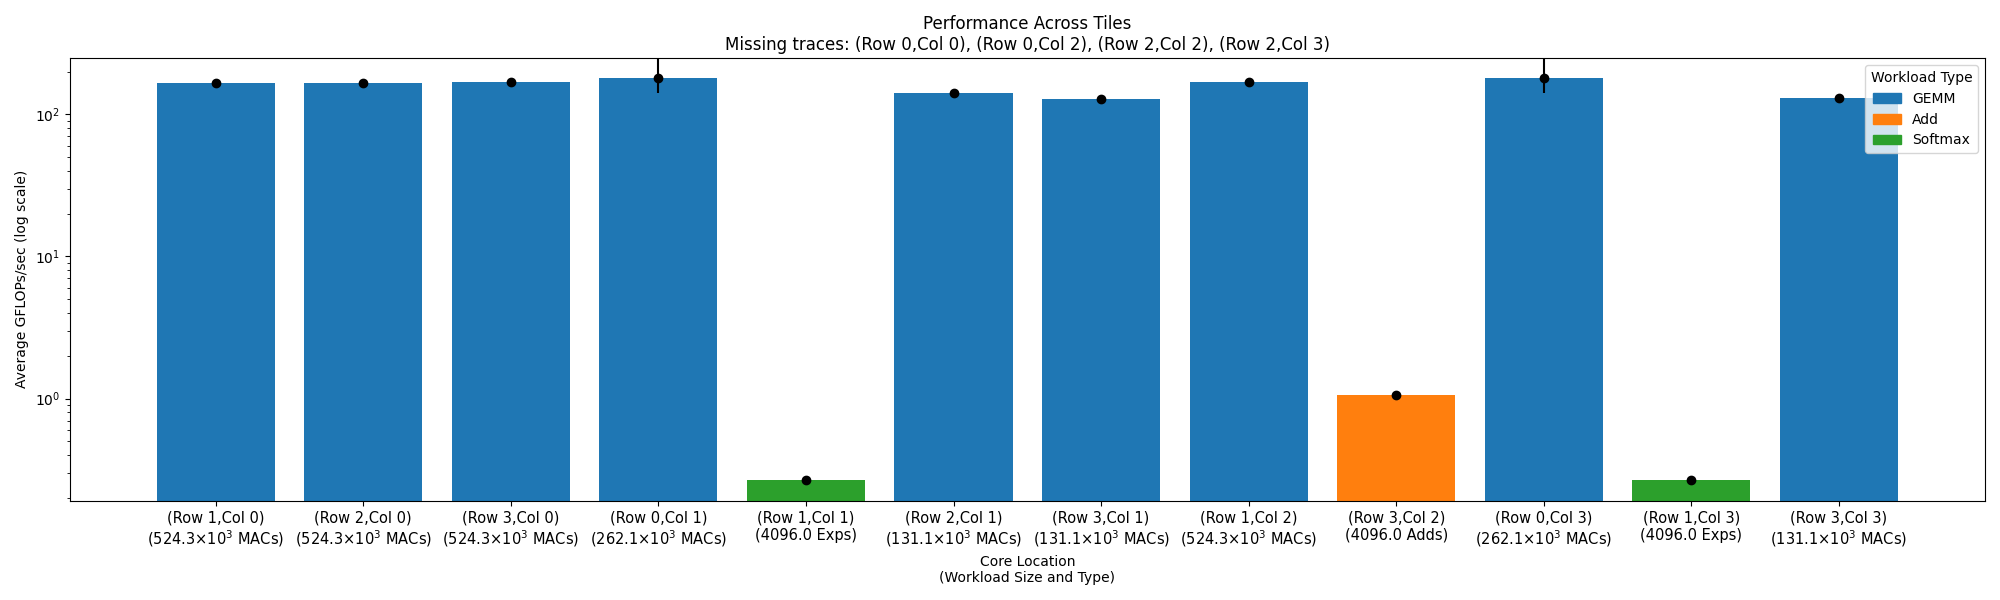
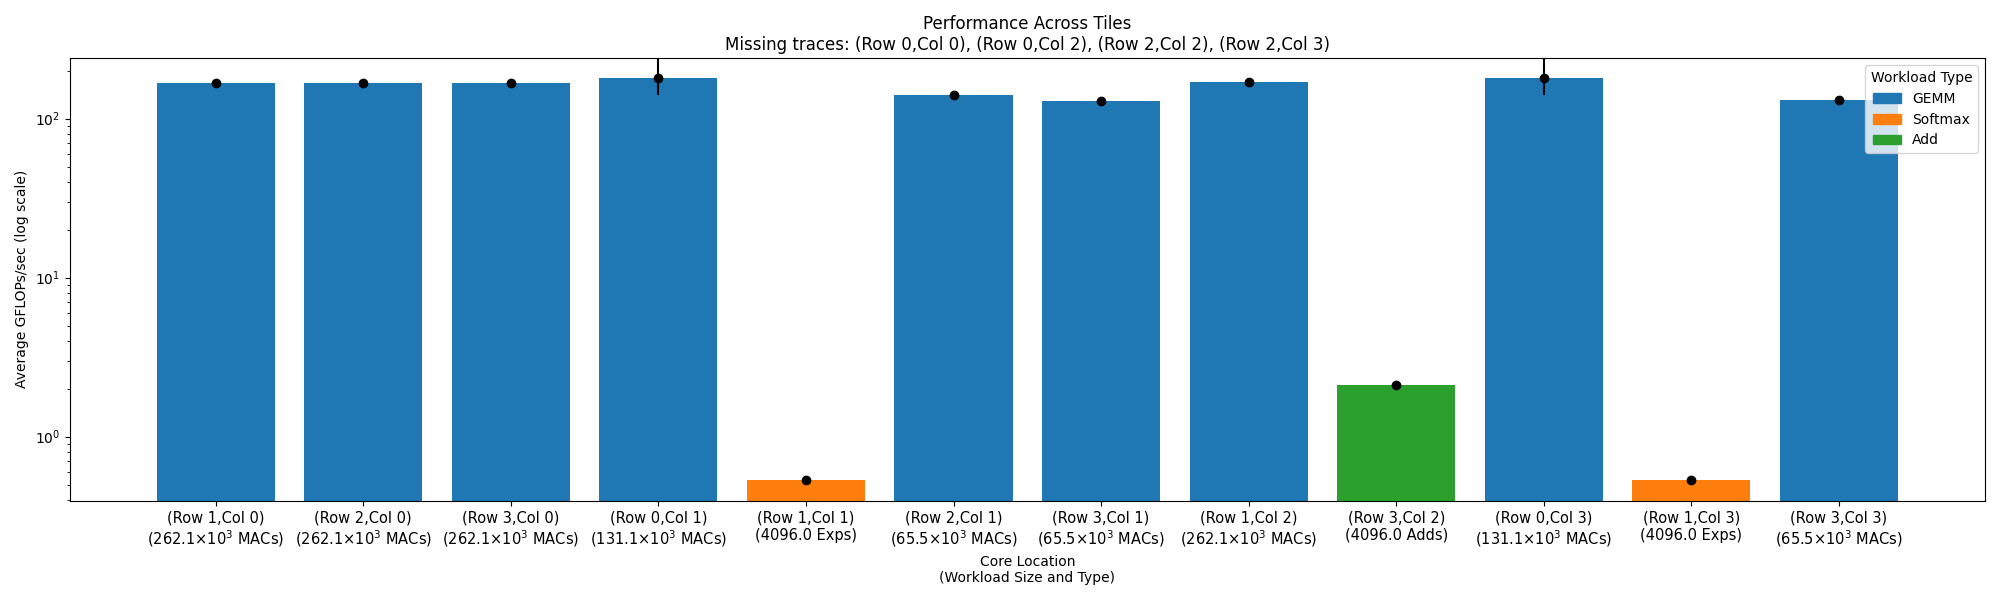
Updating trace analysis to correct one again

diff --git a/programming_examples/ml/transformer/mha_with_trace/analyse_traces.py b/programming_examples/ml/transformer/mha_with_trace/analyse_traces.py
@@ -8,22 +8,22 @@ import matplotlib.pyplot as plt
 # First number is row, second number is column
 THEORETICAL_PEAK_BF16_BF16 = {"npu2": 256, "npu": 128} # MACs per cycle
 WORKLOAD_AT_TILE = {
-    "tile2,1": {"type": "GEMM", "size": 64*64*64*2},
-    "tile2,2": {"type": "GEMM", "size": 16*32*256*2},
-    "tile2,3": {"type": "GEMM", "size": 64*64*64*2},
-    "tile2,4": {"type": "GEMM", "size": 16*32*256*2},
-    "tile3,1": {"type": "GEMM", "size": 64*64*64*2},
+    "tile2,1": {"type": "GEMM", "size": 64*64*64},
+    "tile2,2": {"type": "GEMM", "size": 16*32*256},
+    "tile2,3": {"type": "GEMM", "size": 64*64*64},
+    "tile2,4": {"type": "GEMM", "size": 16*32*256},
+    "tile3,1": {"type": "GEMM", "size": 64*64*64},
     "tile3,2": {"type": "Softmax", "size": 16*256},
-    "tile3,3": {"type": "GEMM", "size": 64*64*64*2},
+    "tile3,3": {"type": "GEMM", "size": 64*64*64},
     "tile3,4": {"type": "Softmax", "size": 16*256},
-    "tile4,1": {"type": "GEMM", "size": 64*64*64*2},
-    "tile4,2": {"type": "GEMM", "size": 16*256*16*2},
+    "tile4,1": {"type": "GEMM", "size": 64*64*64},
+    "tile4,2": {"type": "GEMM", "size": 16*256*16},
     "tile4,3": 0,
-    "tile4,4": {"type": "GEMM", "size": 16*256*16*2},
-    "tile5,1": {"type": "GEMM", "size": 64*64*64*2},
-    "tile5,2": {"type": "GEMM", "size": 16*16*256*2},
+    "tile4,4": {"type": "GEMM", "size": 16*256*16},
+    "tile5,1": {"type": "GEMM", "size": 64*64*64},
+    "tile5,2": {"type": "GEMM", "size": 16*16*256},
     "tile5,3": {"type": "Add", "size": 16*256},
-    "tile5,4": {"type": "GEMM", "size": 16*16*256*2},
+    "tile5,4": {"type": "GEMM", "size": 16*16*256},
 }
 
 CLOCK_FREQ = 10**9  # 1 GHz
@@ -118,15 +118,15 @@ def analyse_json_file(filepath, dev):
             logging.info(f"Max kernel time (s): {kernel_time_s_max}")
             logging.info(f"Min kernel time (s): {kernel_time_s_min}")
             # Calculate GFLOPs/sec: (workload size in FLOPs) / (kernel time in seconds) / (10^9 FLOPs per GFLOPs)
-            gflops_per_s_avg = (workload['size'] / kernel_time_s_avg / 1e9) if workload and kernel_time_s_avg > 0 else 0
-            gflops_per_s_max = (workload['size'] / kernel_time_s_min / 1e9) if workload and kernel_time_s_min > 0 else 0
-            gflops_per_s_min = (workload['size'] / kernel_time_s_max / 1e9) if workload and kernel_time_s_max > 0 else 0
+            gflops_per_s_avg = (workload['size'] * 2 / kernel_time_s_avg / 1e9) if workload and kernel_time_s_avg > 0 else 0
+            gflops_per_s_max = (workload['size'] * 2 / kernel_time_s_min / 1e9) if workload and kernel_time_s_min > 0 else 0
+            gflops_per_s_min = (workload['size'] * 2 / kernel_time_s_max / 1e9) if workload and kernel_time_s_max > 0 else 0
             logging.info(f"Average GFLOPs/sec: {gflops_per_s_avg}")
             logging.info(f"Max GFLOPs/sec: {gflops_per_s_max}")
             logging.info(f"Min GFLOPs/sec: {gflops_per_s_min}")
             if workload and workload['type'] == "GEMM":
-                # Compute utilization: (workload size in FLOPs) / (2 FLOPs per MAC) / (kernel time in seconds * CLOCK_FREQ in cycles per second) / (THEORETICAL_PEAK_BF16_BF16 in MACs per cycle)
-                compute_utilization = ((workload['size'] / 2) / (kernel_time_s_avg * CLOCK_FREQ)) / THEORETICAL_PEAK_BF16_BF16[dev] # Fraction of theoretical peak
+                # Compute utilization: (workload size in MACs) / (kernel time in seconds * CLOCK_FREQ in cycles per second) / (THEORETICAL_PEAK_BF16_BF16 in MACs per cycle)
+                compute_utilization = ((workload['size']) / (kernel_time_s_avg * CLOCK_FREQ)) / THEORETICAL_PEAK_BF16_BF16[dev] # Fraction of theoretical peak
                 logging.info(f"Compute Utilization for {tile_str}: {compute_utilization:.2%}")
             else:
                 compute_utilization = None
@@ -204,9 +204,11 @@ def main():
             if match:
                 row, col = int(match.group(1)), int(match.group(2))
                 if args.dev == "npu":
-                    col -= 1
-                tile_str = f"(Row {row-2},Col {col})"
-                tiles.append(tile_str)
+                    tile_str = f"(Row {row-2},Col {col-1})"
+                    tiles.append(tile_str)
+                else:
+                    # Need to check traces generated for Strix. Haven't done so yet.
+                    raise ValueError(f"Need to add support for device type: {args.dev}")
             else:
                 tiles.append(tile)
             avg_ops.append(data["gflops_per_s_avg"])
@@ -282,8 +284,10 @@ def main():
                 if match:
                     row, col = int(match.group(1)), int(match.group(2))
                     if args.dev == "npu":
-                        col -= 1
-                    tile_str = f"(Row {row-2},Col {col})"
+                        tile_str = f"(Row {row-2},Col {col-1})"
+                    else:
+                        # Need to check traces generated for Strix. Haven't done so yet.
+                        raise ValueError(f"Need to add support for device type: {args.dev}")
                 else:
                     tile_str = tile
                 util_tiles.append(tile_str)
@@ -330,8 +334,10 @@ def main():
             if match:
                 row, col = int(match.group(1)), int(match.group(2))
                 if args.dev == "npu":
-                    col -= 1
-                tile_str = f"(Row {row-2},Col {col})"
+                    tile_str = f"(Row {row-2},Col {col-1})"
+                else:
+                    # Need to check traces generated for Strix. Haven't done so yet.
+                    raise ValueError(f"Need to add support for device type: {args.dev}")
             else:
                 tile_str = tile
             kernel_tiles.append(tile_str)
